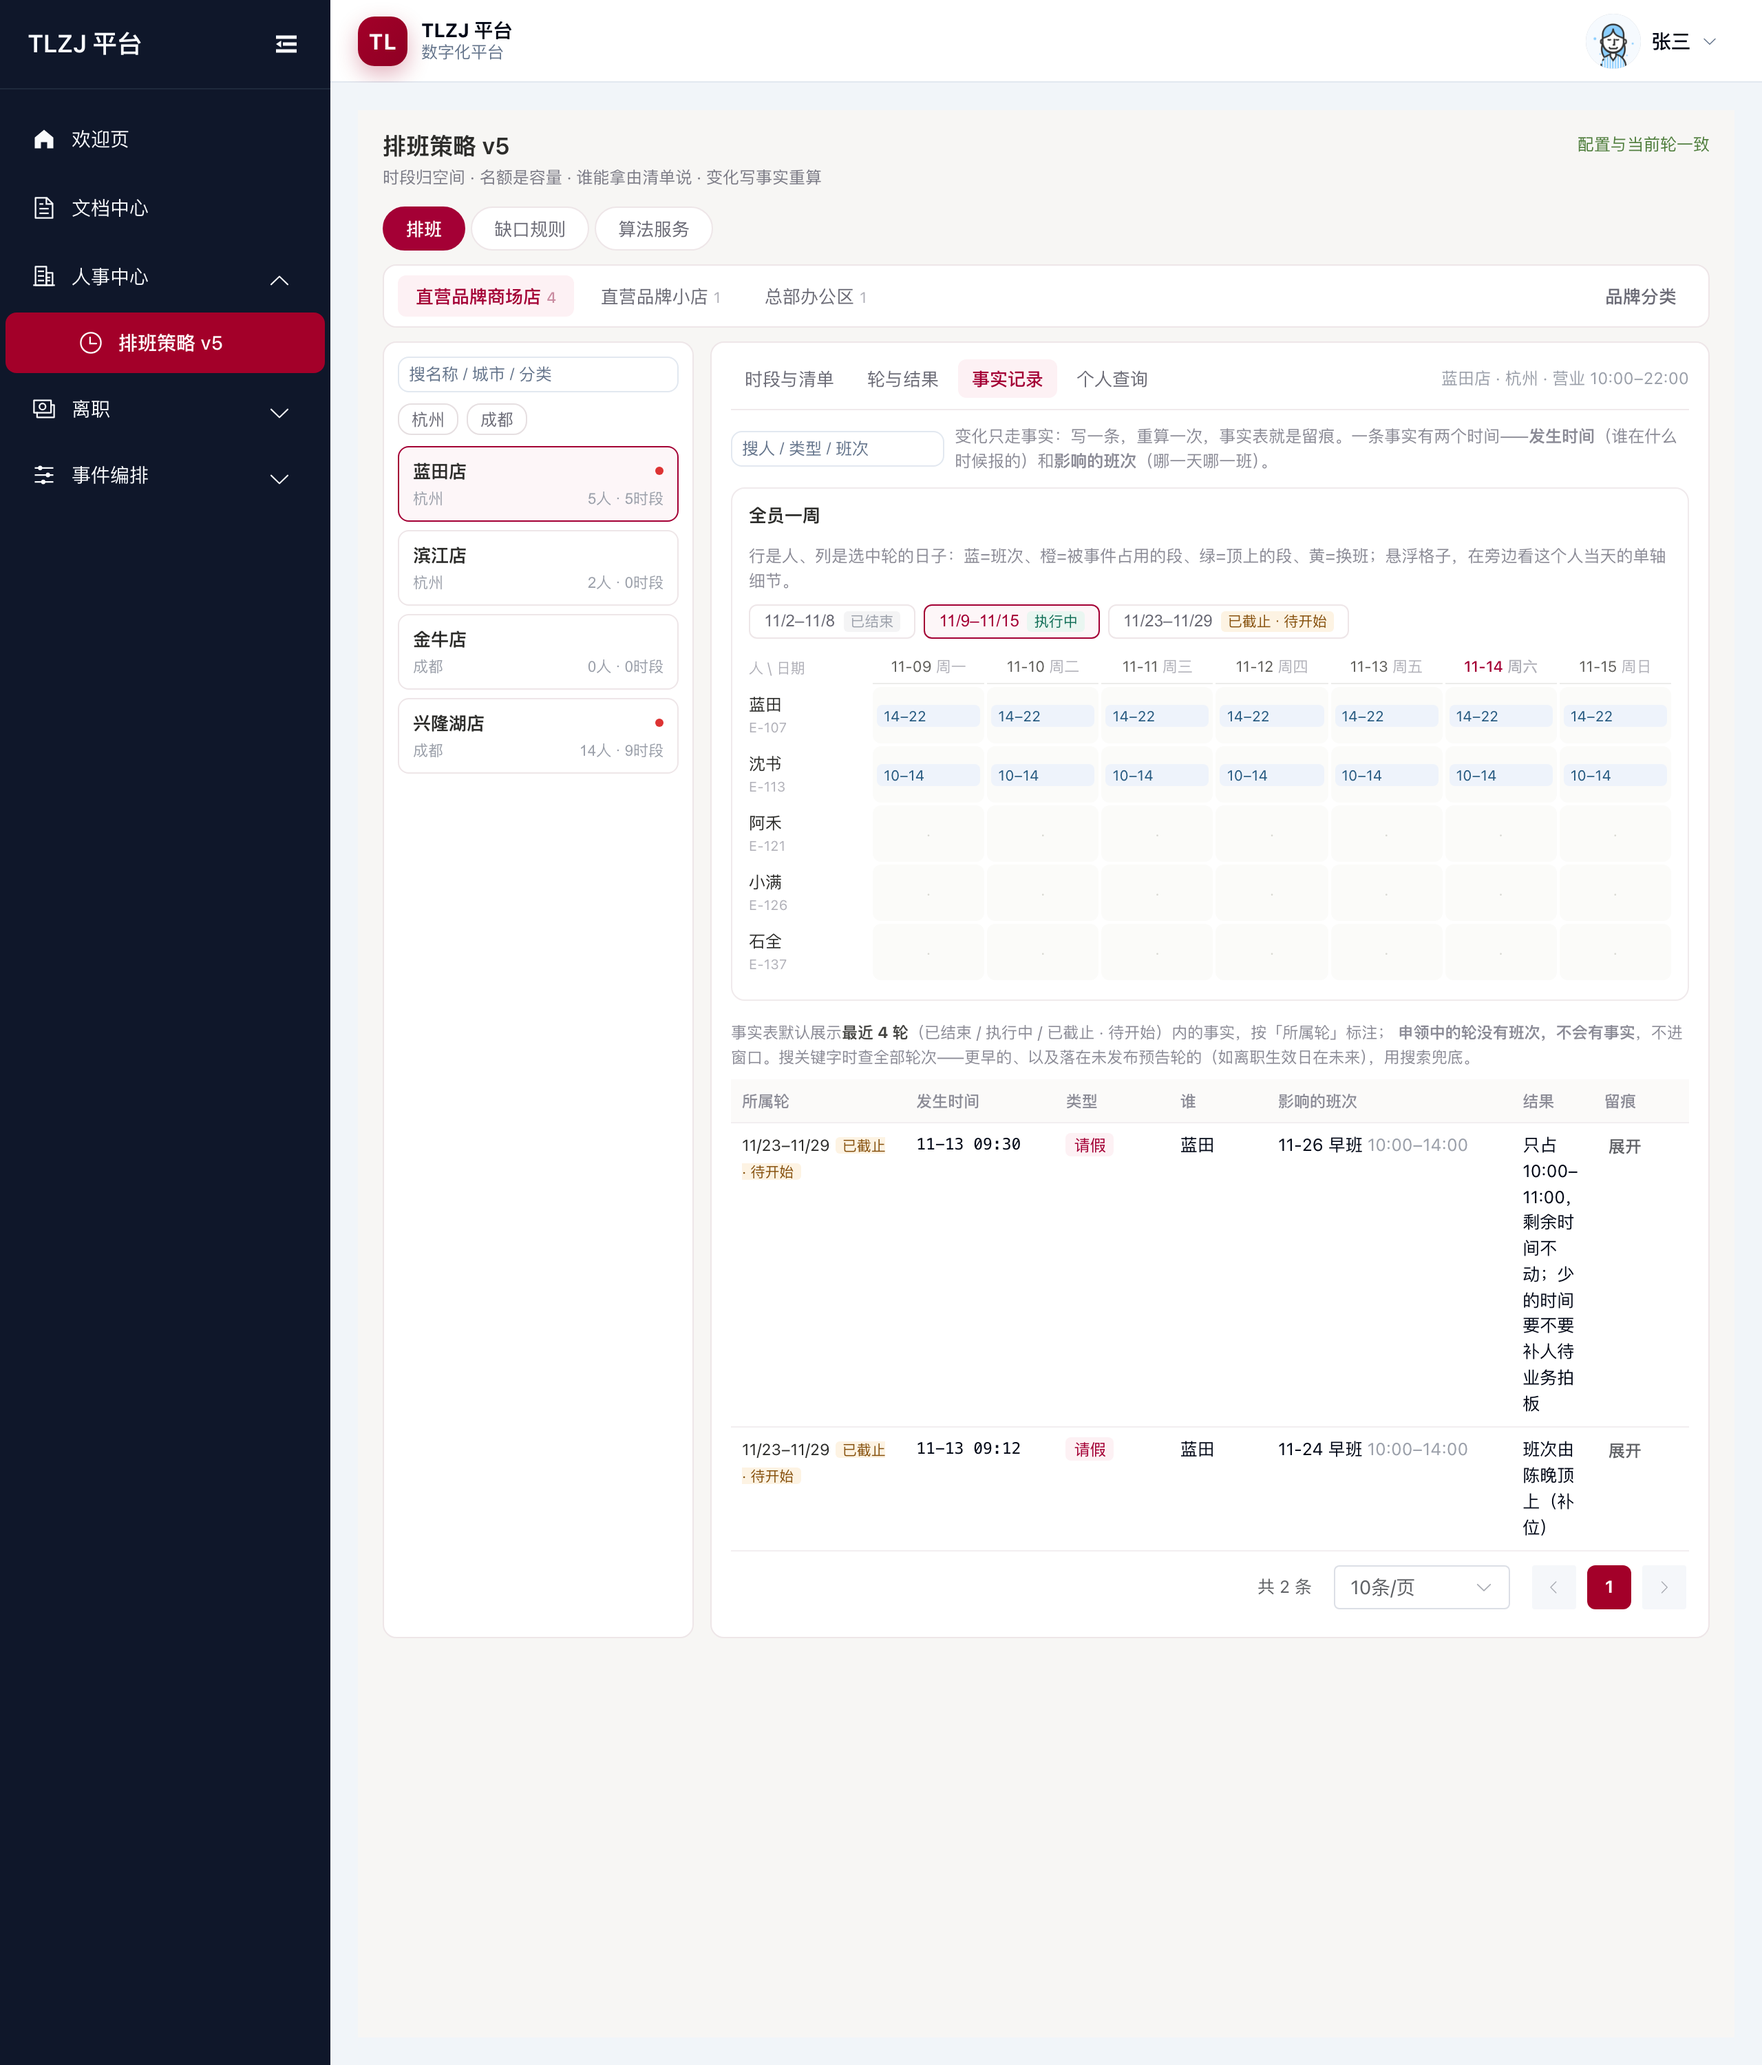
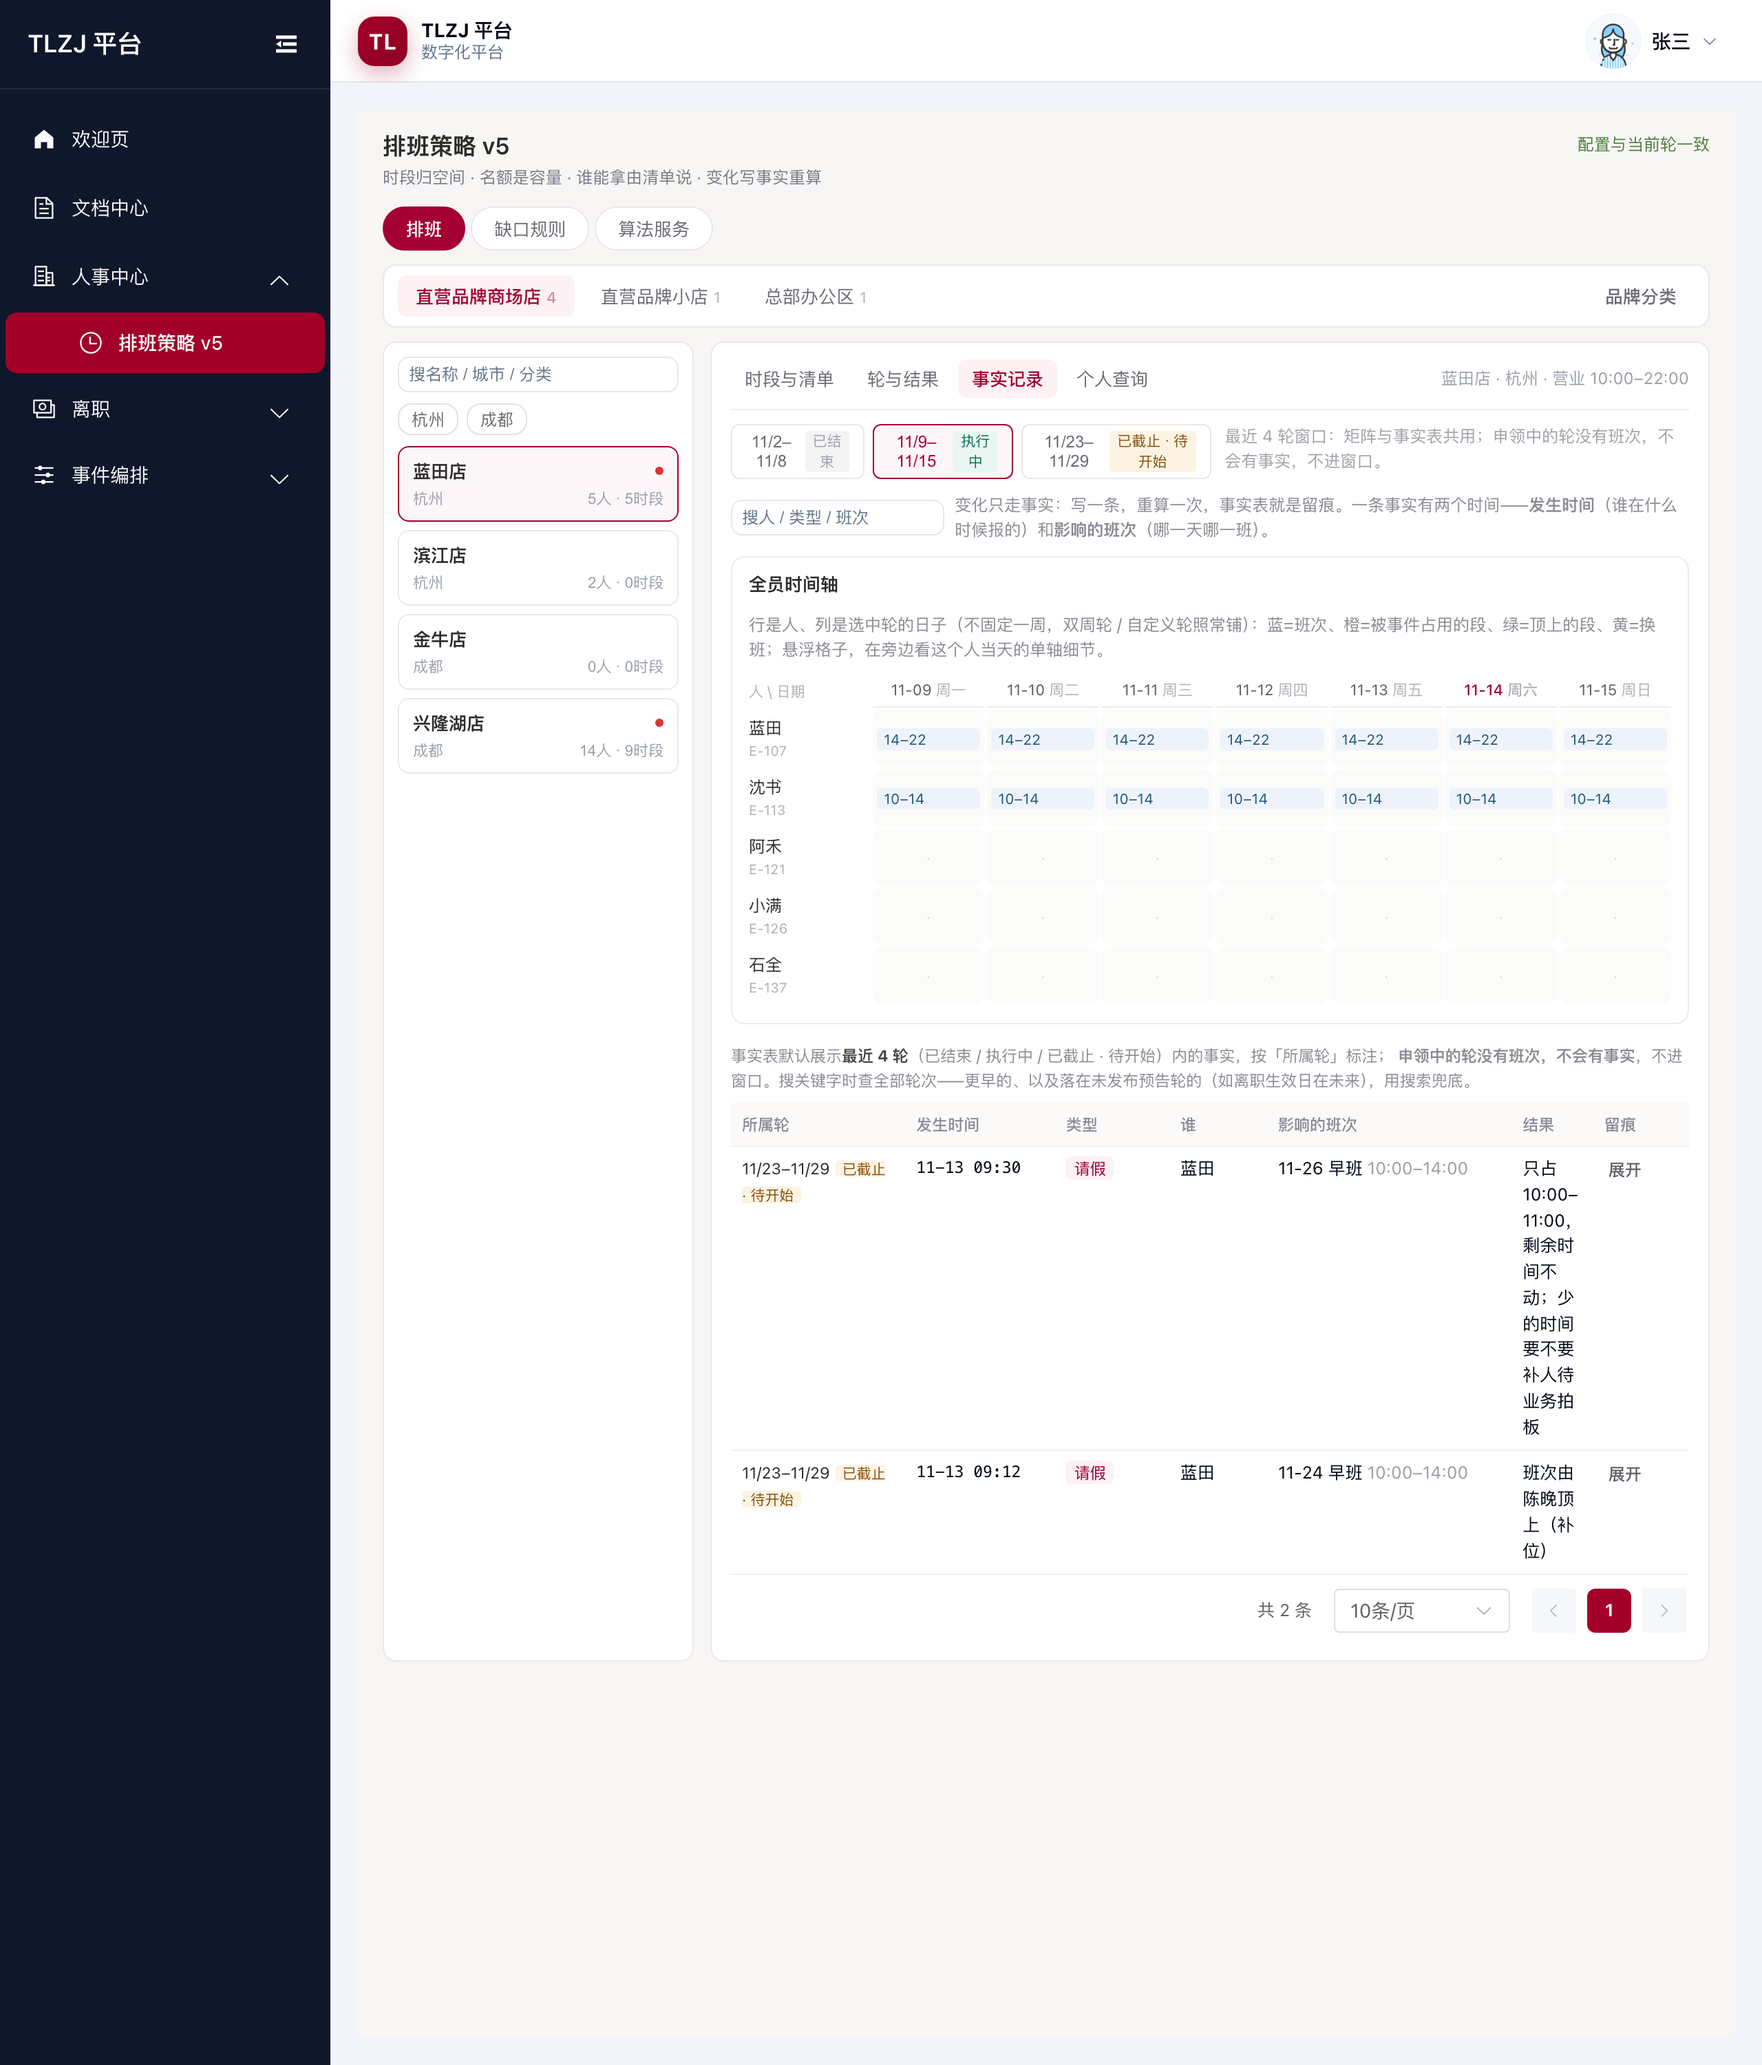
事实记录两处纠正：轮次窗口 tab 提到页签最顶部（全页统一约束不再埋在矩阵盒里，附窗口说明）；「全员一周」更名「全员时间轴」——列轴是选中轮的日子而非固定一周（双周轮/自定义轮照常铺），原型/文档 6.4.1/页内目录/功能入口/枢纽页/变更日志 v3.21 同步，v3.x 历史条目保留原名；v5-facts.png 重截

diff --git a/src/views/ScheduleV5.vue b/src/views/ScheduleV5.vue
@@ -765,22 +765,25 @@
 
         <!-- ③ 变化段：事实与记录 -->
         <section v-else-if="tab === 'fact'" class="pane">
+          <!-- 轮次窗口：整个页签的统一约束（矩阵的日期轴、事实表的过滤都从这里走），放页签最顶上 -->
+          <div class="rb-tabs" style="margin-bottom: 10px">
+            <button v-for="r in factWindow" :key="r.id" :class="{ on: factRoundSel && factRoundSel.id === r.id }" @click="factRoundId = r.id">
+              <strong>{{ short(r.span[0]) }}–{{ short(r.span[1]) }}</strong>
+              <em :class="['rb-badge', r.status]">{{ roundStatusLabel(r.status) }}</em>
+            </button>
+            <span class="rw-note">最近 4 轮窗口：矩阵与事实表共用；申领中的轮没有班次，不会有事实，不进窗口。</span>
+          </div>
+
           <div class="fact-acts">
             <el-input v-model="factKw" placeholder="搜人 / 类型 / 班次" clearable size="small" style="width: 220px" />
             <span class="fa-hint">变化只走事实：写一条，重算一次，事实表就是留痕。一条事实有两个时间——<b>发生时间</b>（谁在什么时候报的）和<b>影响的班次</b>（哪一天哪一班）。</span>
           </div>
 
-          <!-- 全员一周：行是人、列是这一轮的日子，格子放班次/占用/顶班的时段 chip；悬浮格子，在格子旁边出当天的单轴小卡 -->
+          <!-- 全员时间轴：行是人、列是窗口内选中轮的日子，格子放班次/占用/顶班的时段 chip；悬浮格子，在格子旁边出当天的单轴小卡 -->
           <div class="tl-box">
             <div class="tl-head">
-              <strong>全员一周</strong>
-              <span>行是人、列是选中轮的日子：蓝=班次、橙=被事件占用的段、绿=顶上的段、黄=换班；悬浮格子，在旁边看这个人当天的单轴细节。</span>
-            </div>
-            <div class="rb-tabs" style="margin-bottom: 8px">
-              <button v-for="r in factWindow" :key="r.id" :class="{ on: factRoundSel && factRoundSel.id === r.id }" @click="factRoundId = r.id">
-                <strong>{{ short(r.span[0]) }}–{{ short(r.span[1]) }}</strong>
-                <em :class="['rb-badge', r.status]">{{ roundStatusLabel(r.status) }}</em>
-              </button>
+              <strong>全员时间轴</strong>
+              <span>行是人、列是选中轮的日子（不固定一周，双周轮 / 自定义轮照常铺）：蓝=班次、橙=被事件占用的段、绿=顶上的段、黄=换班；悬浮格子，在旁边看这个人当天的单轴细节。</span>
             </div>
             <div class="tl-scroll" @scroll="hideCellNow">
               <div class="tl-grid" :style="{ gridTemplateColumns: `88px repeat(${tlDates.length}, minmax(64px, 1fr))` }">
@@ -897,7 +900,7 @@
         </section>
       </main>
 
-      <!-- 悬浮卡：贴着格子/日子出的当天单轴细节（事实记录全员一周 与 个人查询 共用），不往下撑页面 -->
+      <!-- 悬浮卡：贴着格子/日子出的当天单轴细节（事实记录全员时间轴 与 个人查询 共用），不往下撑页面 -->
       <div v-if="popShow && tlDay" class="tl-pop" :style="{ left: popPos.left + 'px', top: popPos.top + 'px' }"
         @mouseenter="keepCell" @mouseleave="hideCellSoon">
         <div class="tl-pop-head">{{ tlPersonName }} · {{ tlDay.slice(5) }}</div>
@@ -2513,7 +2516,7 @@ tr.covered td { color: #9a9fa9; }
 .fa-hint { font-size: 12px; color: #8a8a95; margin-right: auto; }
 /* 个人时间线 */
 .tl-box { border: 1px solid #f0eaec; border-radius: 10px; background: #fff; padding: 10px 12px 8px; margin-bottom: 14px; }
-/* 全员一周网格 */
+/* 全员时间轴网格 */
 .tl-scroll { overflow-x: auto; margin-bottom: 6px; }
 .tl-grid { display: grid; gap: 2px; min-width: 100%; }
 .tl-corner { font-size: 10.5px; color: #b0b0b8; display: flex; align-items: flex-end; padding: 2px 4px 4px 0; }
@@ -2635,6 +2638,7 @@ tr.hl td { background: #fdf3e6 !important; }
 .rb-tabs button { display: flex; align-items: center; gap: 6px; border: 1px solid #eee6e8; background: #fff; border-radius: 6px; padding: 4px 10px; font-size: 12px; color: #6a6a75; cursor: pointer; }
 .rb-tabs button strong { font-weight: 500; }
 .rb-tabs button.on { border-color: #a40035; color: #a40035; background: #fdf6f8; }
+.rb-tabs .rw-note { font-size: 12px; color: #a0a0aa; margin-left: 4px; }
 .rb-badge { font-style: normal; font-size: 10.5px; padding: 0 5px; border-radius: 3px; background: #f2f2f4; color: #8a8a95; }
 .rb-badge.applying { background: #fdf6f8; color: #a40035; }
 .rb-badge.locked { background: #fdf3e3; color: #854F0B; }

diff --git a/src/views/hr-schedule/sections/HS64Facts.vue b/src/views/hr-schedule/sections/HS64Facts.vue
@@ -18,20 +18,20 @@
       </p>
       <div class="func-entry">
         <strong>功能入口：</strong>排班策略 v5（原型 <code>/schedule-v5</code>）→ <strong>事实记录</strong>
-        （全员一周矩阵 / 事实表：默认展示最近 4 轮窗口，支持搜索与分页）
+        （全员时间轴矩阵 / 事实表：默认展示最近 4 轮窗口，支持搜索与分页）
       </div>
 
       <DocScreens
         :height="420"
         :images="[
-          { src: factsShot, label: '事实记录：全员一周矩阵（蓝=班次·橙斜纹=被占用·绿=顶班）+ 事实表（最近 4 轮窗口 · 所属轮标注 · 搜索 + 分页）' }
+          { src: factsShot, label: '事实记录：最近 4 轮窗口 tab（页首统一约束）+ 全员时间轴矩阵（蓝=班次·橙斜纹=被占用·绿=顶班）+ 事实表（所属轮标注 · 搜索 + 分页）' }
         ]"
       />
     </div>
 
     <div id="hs-64-timeline" class="section">
       <div class="section-header">
-        <h3>6.4.1 全员一周矩阵</h3>
+        <h3>6.4.1 全员时间轴矩阵</h3>
       </div>
       <table class="data-table">
         <thead>
@@ -44,8 +44,8 @@
         </tbody>
       </table>
       <div class="note">
-        <strong>轮次窗口（事实记录页的统一约束）：</strong>事实记录默认展示<strong>最近 4 轮</strong>——已结束 / 执行中 / 已截止 · 待开始；
-        全员一周矩阵在窗口内切轮（结果页回答「这一轮怎么排的」，事实页回答「最近发生了什么变化」）。
+        <strong>轮次窗口（事实记录页的统一约束，在页签最顶部）：</strong>事实记录默认展示<strong>最近 4 轮</strong>——已结束 / 执行中 / 已截止 · 待开始；
+        全员时间轴在窗口内切轮（结果页回答「这一轮怎么排的」，事实页回答「最近发生了什么变化」）。
         <strong>申领中的轮不进窗口</strong>：还没翻轮、没有班次和占位，事实无处可挂。
         事实表每行标注<strong>所属轮</strong>——按「影响的班次日期落在哪轮 span」推导，不存轮次字段（周期改长度后归属跟着新 span 走，见 <router-link to="/docs/hr-schedule/future">8.7</router-link>）；
         搜关键字时查全部轮次，更早的、以及落在未发布预告轮的事实（如离职生效日在未来）用搜索兜底。
@@ -215,7 +215,7 @@ import gapShot from '../../../docs/assets/pages/v5-gap.png'
 
 const tocItems = [
   { id: 'hs-64', label: '6.4 变化与求值' },
-  { id: 'hs-64-timeline', label: '6.4.1 全员一周矩阵' },
+  { id: 'hs-64-timeline', label: '6.4.1 全员时间轴矩阵' },
   { id: 'hs-64-facts', label: '6.4.2 五类事实' },
   { id: 'hs-64-events', label: '6.4.3 事件记录（本期收录）' },
   { id: 'hs-64-gap', label: '6.4.4 缺口规则' },

diff --git a/src/views/hr-schedule/HrScheduleFeatures.vue b/src/views/hr-schedule/HrScheduleFeatures.vue
@@ -38,7 +38,7 @@
           <tr><td><strong>6.1 时段与清单</strong></td><td>排班策略 v5 → 时段与清单（<code>/schedule-v5</code>）</td><td>班次时间与名额 + 清单逐档配「谁 / 方式 / 窗口 / 上限」</td></tr>
           <tr><td><strong>6.2 轮与获取</strong></td><td>排班策略 v5 → 轮与结果；页头排班节奏</td><td>轮的三个时刻、三种获取方式、余额三条去向</td></tr>
           <tr><td><strong>6.3 排班结果</strong></td><td>排班策略 v5 → 轮与结果 / 个人查询</td><td>唯一记录口 + 占用矩阵 + 申领登记；个人查询按天看一个人这一轮的班与无法履约明细</td></tr>
-          <tr><td><strong>6.4 变化与求值</strong></td><td>排班策略 v5 → 事实记录</td><td>五类事实、全员一周矩阵、事实表（搜索 + 分页）</td></tr>
+          <tr><td><strong>6.4 变化与求值</strong></td><td>排班策略 v5 → 事实记录</td><td>五类事实、全员时间轴矩阵、事实表（最近 4 轮窗口 · 搜索 + 分页）</td></tr>
           <tr><td><strong>6.5 移动端</strong></td><td>移动端菜单 → 人事组「我的排班」（<code>/v5/m</code>）</td><td>我的排班 + 可获取两页签，右上角切演示视角</td></tr>
           <tr><td><strong>6.6 通知</strong></td><td>本章 6.6（<code>/docs/hr-schedule/6-6</code>）</td><td>发给员工的补位 / 安排 / 换班，发给人事经理的缺口</td></tr>
           <tr><td><strong>6.7 打卡</strong></td><td>本章 6.7（<code>/docs/hr-schedule/6-7</code>）</td><td>人事中心通用打卡能力，首个落地非全客户经理</td></tr>

diff --git a/src/views/hr-schedule/sections/HS02Changelog.vue b/src/views/hr-schedule/sections/HS02Changelog.vue
@@ -231,7 +231,7 @@
             <td>2026-11-26</td>
             <td>
               <strong>6.4.1 补事实记录的轮次窗口口径：</strong>事实记录页默认展示<strong>最近 4 轮</strong>（已结束 / 执行中 / 已截止 · 待开始），
-              全员一周矩阵在窗口内切轮、事实表按「所属轮」标注——归属按影响班次日期推导、不存轮次字段（与 8.7 周期变更口径自洽）；
+              全员时间轴矩阵在窗口内切轮、事实表按「所属轮」标注——归属按影响班次日期推导、不存轮次字段（与 8.7 周期变更口径自洽）；
               <strong>申领中的轮不进窗口</strong>（没翻轮没班次，事实无处可挂）；搜关键字查全部轮次兜底。
               原型事实记录页同步（轮次 tab / 所属轮列 / 搜索去掉「结果」字段）；6.4 升 v5.5。
             </td>
